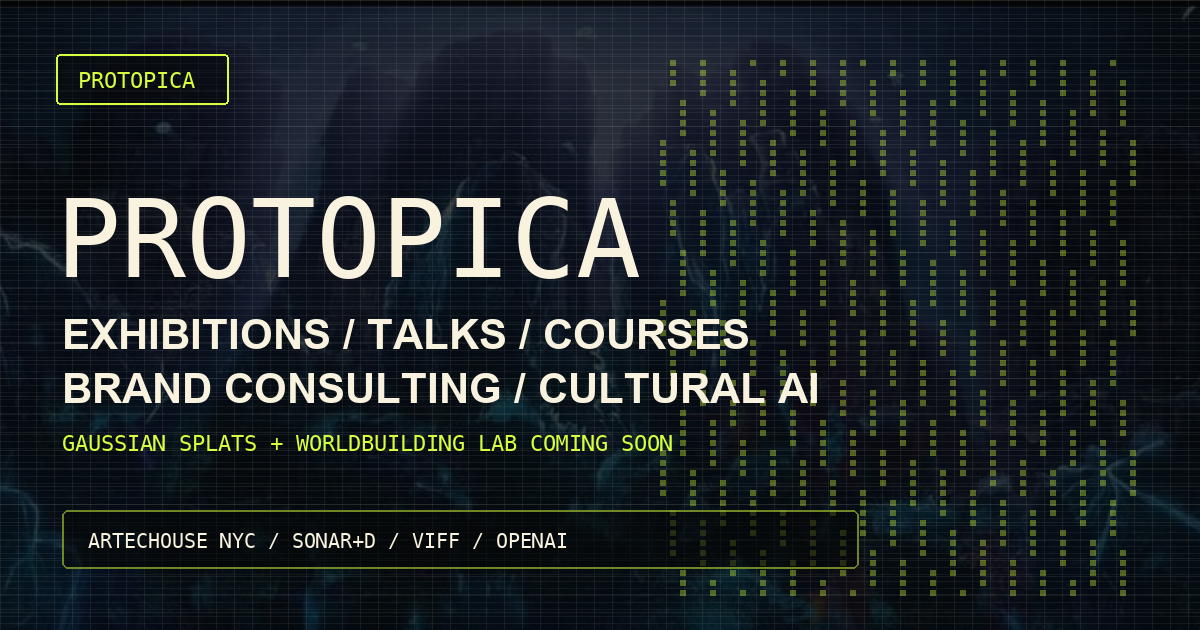
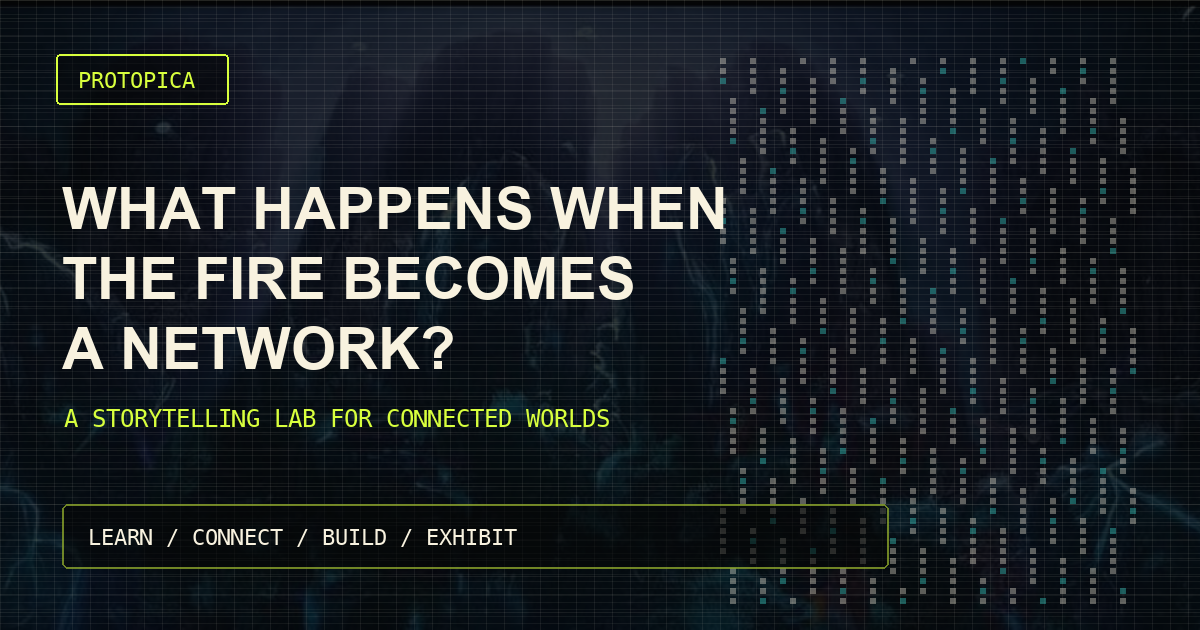
Make beta story-first

Changed region(s): [[0.0308, 0.0905, 0.9558, 0.9651], [0.0617, 0.8444, 0.4625, 0.8746]]

diff --git a/2026-beta/index.html b/2026-beta/index.html
@@ -3,15 +3,15 @@
   <head>
     <meta charset="utf-8" />
     <meta name="viewport" content="width=device-width, initial-scale=1" />
-    <title>Protopica - Immersive Cultural AI Exhibitions</title>
+    <title>Protopica - Storytelling Lab for Connected Worlds</title>
     <meta
       name="description"
-      content="Protopica creates exhibitions, talks, university courses, brand consulting, cultural preservation systems and experimental AI worlds."
+      content="Protopica is a storytelling lab for connected worlds, helping artists, institutions, universities and brands learn, gather and bring culturally grounded stories to life."
     />
-    <meta property="og:title" content="Protopica - Immersive Cultural AI Exhibitions" />
+    <meta property="og:title" content="Protopica - Storytelling Lab for Connected Worlds" />
     <meta
       property="og:description"
-      content="Exhibitions, talks, university courses, brand consulting and cultural preservation through immersive AI worlds."
+      content="A storytelling lab for connected worlds: learn, gather and bring culturally grounded stories to life through emerging technology."
     />
     <meta property="og:type" content="website" />
     <meta property="og:url" content="https://protopica.com/2026-beta/" />
@@ -19,10 +19,10 @@
     <meta property="og:image:width" content="1200" />
     <meta property="og:image:height" content="630" />
     <meta name="twitter:card" content="summary_large_image" />
-    <meta name="twitter:title" content="Protopica - Immersive Cultural AI Exhibitions" />
+    <meta name="twitter:title" content="Protopica - Storytelling Lab for Connected Worlds" />
     <meta
       name="twitter:description"
-      content="Exhibitions, talks, university courses, brand consulting and cultural preservation through immersive AI worlds."
+      content="A storytelling lab for connected worlds: learn, gather and bring culturally grounded stories to life through emerging technology."
     />
     <meta name="twitter:image" content="https://protopica.com/2026-beta/protopica/og.png" />
     <link rel="icon" href="favicon.png" />
@@ -31,7 +31,7 @@
   </head>
   <body>
     <main class="site" id="top">
-      <section class="hero" aria-labelledby="hero-title">
+      <section class="hero" id="story" aria-labelledby="hero-title">
         <canvas
           class="hero-canvas"
           data-image="protopica/artechouse-panorama.jpg"
@@ -41,54 +41,94 @@
         <nav class="site-nav" aria-label="Primary navigation">
           <a class="wordmark" href="#top" aria-label="Protopica home">PROTOPICA</a>
           <div class="nav-links">
-            <a href="#current">Current</a>
+            <a href="#story">Story</a>
+            <a href="#protopica">Protopica</a>
             <a href="#pillars">Pillars</a>
             <a href="#exhibitions">Exhibitions</a>
-            <a href="#experiments">Experiments</a>
+            <a href="#experiments">Lab</a>
             <a href="#blog">Blog</a>
-            <a href="#team">Team</a>
           </div>
         </nav>
 
         <div class="hero-grid">
           <div class="hero-copyblock">
-            <p class="eyebrow">Current exhibition / ARTECHOUSE NYC</p>
-            <h1 id="hero-title">PROTOPICA</h1>
+            <p class="eyebrow">Before tools, there were stories</p>
+            <h1 id="hero-title">What happens when the fire becomes a network?</h1>
             <p class="hero-deck">
-              Exhibitions, talks, courses and cultural AI systems for institutions,
-              brands and communities.
+              Everyone is a storyteller. Not everyone knows how to tell stories at
+              the scale, speed and intimacy of a connected world.
             </p>
             <p class="hero-body">
-              We move Protopica between public exhibitions, university classrooms,
-              brand innovation rooms and cultural preservation research. The goal
-              is practical: make emerging technology feel human, memorable and
-              useful enough to fund, host, teach and scale.
+              Protopica is a space for artists, educators, institutions and
+              companies to learn together, meet aligned collaborators and bring
+              culturally grounded stories to life through frameworks, tools and
+              field-tested experiments.
             </p>
             <div class="action-row" aria-label="Primary calls to action">
               <a
                 class="button button--primary"
                 href="mailto:[email redacted]?subject=Bring%20Protopica%20to%20our%20venue"
               >
-                Work with Protopica
+                Work with us
               </a>
-              <a class="button" href="#exhibitions">See exhibitions</a>
+              <a class="button" href="#protopica">Understand Protopica</a>
             </div>
           </div>
 
-          <aside class="live-card" aria-label="Current exhibition summary">
-            <p class="eyebrow">Now showing</p>
-            <h2>Sin Agua, No Hay Tiempo</h2>
+          <aside class="live-card story-card" aria-label="Protopica summary">
+            <p class="eyebrow">Protopica</p>
+            <h2>A storytelling lab for connected worlds.</h2>
             <p>
-              Featured in <strong>SUBMERGE: Beyond the Render</strong> at
-              ARTECHOUSE NYC, now through Aug. 31.
+              We help people move from story instinct to story infrastructure:
+              learning, community, tools, exhibitions and cultural AI systems.
             </p>
             <div class="readout-grid">
-              <span>18K render</span>
-              <span>270-degree room</span>
-              <span>talks + courses</span>
-              <span>brand consulting</span>
+              <span>learn</span>
+              <span>connect</span>
+              <span>build</span>
+              <span>exhibit</span>
             </div>
           </aside>
+        </div>
+      </section>
+
+      <section class="section identity" id="protopica" aria-labelledby="protopica-title">
+        <div class="identity-grid">
+          <div>
+            <p class="eyebrow">What is Protopica?</p>
+            <h2 id="protopica-title">A place to practice storytelling for the age of AI, XR and connected audiences.</h2>
+          </div>
+          <div class="identity-copy">
+            <p>
+              Humans have always used stories to remember, teach, gather and make
+              sense of change. Today the fire is a screen, a headset, a classroom,
+              a projection room, a model, a network. The need is ancient. The
+              interfaces are new.
+            </p>
+            <p>
+              Protopica offers frameworks, courses, talks, exhibitions and
+              experiments for people who want to tell stories with emerging
+              technology without losing cultural depth, human clarity or emotional
+              resonance.
+            </p>
+          </div>
+        </div>
+        <div class="pathway-grid" aria-label="How Protopica works">
+          <article class="pathway-card">
+            <span>01</span>
+            <h3>Learn the language</h3>
+            <p>Courses, talks and workshops that make AI, XR, BCI, haptics and cultural preservation clear enough to use.</p>
+          </article>
+          <article class="pathway-card">
+            <span>02</span>
+            <h3>Find the people</h3>
+            <p>A gathering point for storytellers, educators, technologists and companies supporting more human creative futures.</p>
+          </article>
+          <article class="pathway-card">
+            <span>03</span>
+            <h3>Build the world</h3>
+            <p>Frameworks, prototypes, spatial systems and field-tested methods for turning stories into public experiences.</p>
+          </article>
         </div>
       </section>
 
@@ -130,13 +170,12 @@
           <div class="current-copy">
             <p class="eyebrow">Active exhibition</p>
             <h2 id="current-title">
-              The clearest way to understand Protopica is to step inside it.
+              The idea becomes concrete when people can step inside it.
             </h2>
             <p>
-              At ARTECHOUSE NYC, Protopica is no longer just a short film or a
-              research idea. It is an immersive environment: a large-scale,
-              high-resolution cultural AI work built for public attendance,
-              critical context and institutional programming.
+              The current ARTECHOUSE exhibition is one example of the Protopica
+              method: a culturally rooted story translated into spatial cinema,
+              technical craft and public encounter.
             </p>
             <ul class="signal-list">
               <li>Featured artists in ARTECHOUSE's SUBMERGE: Beyond the Render</li>

diff --git a/2026-beta/styles.css b/2026-beta/styles.css
@@ -152,7 +152,7 @@ canvas {
   z-index: 3;
   width: min(100%, var(--max));
   margin: auto auto 0;
-  padding-top: 92px;
+  padding-top: 72px;
   display: grid;
   grid-template-columns: minmax(0, 1.08fr) minmax(320px, 0.64fr);
   gap: 44px;
@@ -169,34 +169,35 @@ canvas {
 }
 
 .hero h1 {
+  max-width: 820px;
   margin: 0;
-  font-family: var(--mono);
-  font-size: 7.4rem;
-  line-height: 0.88;
+  font-family: var(--sans);
+  font-size: 4.35rem;
+  line-height: 1;
   letter-spacing: 0;
 }
 
 .hero-deck {
-  max-width: 900px;
+  max-width: 760px;
   margin: 24px 0 0;
-  font-size: 2.35rem;
-  line-height: 1.06;
+  font-size: 1.65rem;
+  line-height: 1.18;
   color: var(--bone);
 }
 
 .hero-body {
-  max-width: 770px;
-  margin: 22px 0 0;
+  max-width: 740px;
+  margin: 18px 0 0;
   color: rgba(248, 242, 223, 0.83);
-  font-size: 1.1rem;
-  line-height: 1.62;
+  font-size: 1.04rem;
+  line-height: 1.54;
 }
 
 .action-row {
   display: flex;
   flex-wrap: wrap;
   gap: 12px;
-  margin-top: 34px;
+  margin-top: 28px;
 }
 
 .button {
@@ -275,6 +276,10 @@ canvas {
   text-transform: uppercase;
 }
 
+.story-card h2 {
+  max-width: 360px;
+}
+
 .proof-strip {
   display: grid;
   grid-template-columns: repeat(4, 1fr);
@@ -328,6 +333,7 @@ canvas {
 }
 
 .section-header h2,
+.identity h2,
 .current-copy h2,
 .contact h2 {
   margin: 0;
@@ -337,12 +343,53 @@ canvas {
 }
 
 .section-header p:not(.eyebrow),
+.identity-copy p,
 .current-copy > p,
 .contact-copy p {
   margin: 20px 0 0;
   color: rgba(248, 242, 223, 0.74);
   font-size: 1.03rem;
   line-height: 1.64;
+}
+
+.identity {
+  border-bottom: 1px solid var(--line);
+}
+
+.identity-grid {
+  display: grid;
+  grid-template-columns: minmax(0, 0.84fr) minmax(360px, 0.7fr);
+  gap: 48px;
+  align-items: start;
+}
+
+.identity-copy p:first-child {
+  margin-top: 0;
+}
+
+.pathway-grid {
+  display: grid;
+  grid-template-columns: repeat(3, minmax(0, 1fr));
+  gap: 14px;
+  margin-top: 42px;
+}
+
+.pathway-card {
+  min-height: 224px;
+  border: 1px solid rgba(248, 242, 223, 0.16);
+  border-radius: 8px;
+  background:
+    linear-gradient(180deg, rgba(248, 242, 223, 0.05), rgba(248, 242, 223, 0)),
+    rgba(17, 20, 20, 0.74);
+  padding: 20px;
+}
+
+.pathway-card span {
+  display: inline-flex;
+  margin-bottom: 22px;
+  color: var(--acid);
+  font-family: var(--mono);
+  font-size: 0.78rem;
 }
 
 .current,
@@ -499,6 +546,7 @@ canvas {
 .service-card h3,
 .fit-card h3,
 .case-copy h3,
+.pathway-card h3,
 .person-card h3,
 .blog-card h3 {
   margin: 0;
@@ -510,6 +558,7 @@ canvas {
 .service-card p,
 .fit-card p,
 .case-copy p,
+.pathway-card p,
 .person-card p,
 .blog-card p {
   margin: 16px 0 0;
@@ -747,11 +796,13 @@ canvas {
   }
 
   .hero h1 {
-    font-size: 4.5rem;
+    font-size: 3.25rem;
+    line-height: 1;
   }
 
   .hero-deck {
-    font-size: 1.75rem;
+    font-size: 1.42rem;
+    line-height: 1.18;
   }
 
   .hero-body {
@@ -791,14 +842,21 @@ canvas {
   }
 
   .section-header h2,
+  .identity h2,
   .current-copy h2,
   .contact h2 {
     font-size: 2.12rem;
   }
 
+  .identity-grid {
+    grid-template-columns: 1fr;
+    gap: 24px;
+  }
+
   .proof-strip,
   .service-grid,
   .fit-grid,
+  .pathway-grid,
   .case-grid,
   .blog-grid,
   .team-grid {
@@ -827,11 +885,11 @@ canvas {
 
 @media (max-width: 420px) {
   .hero h1 {
-    font-size: 3.38rem;
+    font-size: 2.78rem;
   }
 
   .hero-deck {
-    font-size: 1.48rem;
+    font-size: 1.28rem;
   }
 
   .button {